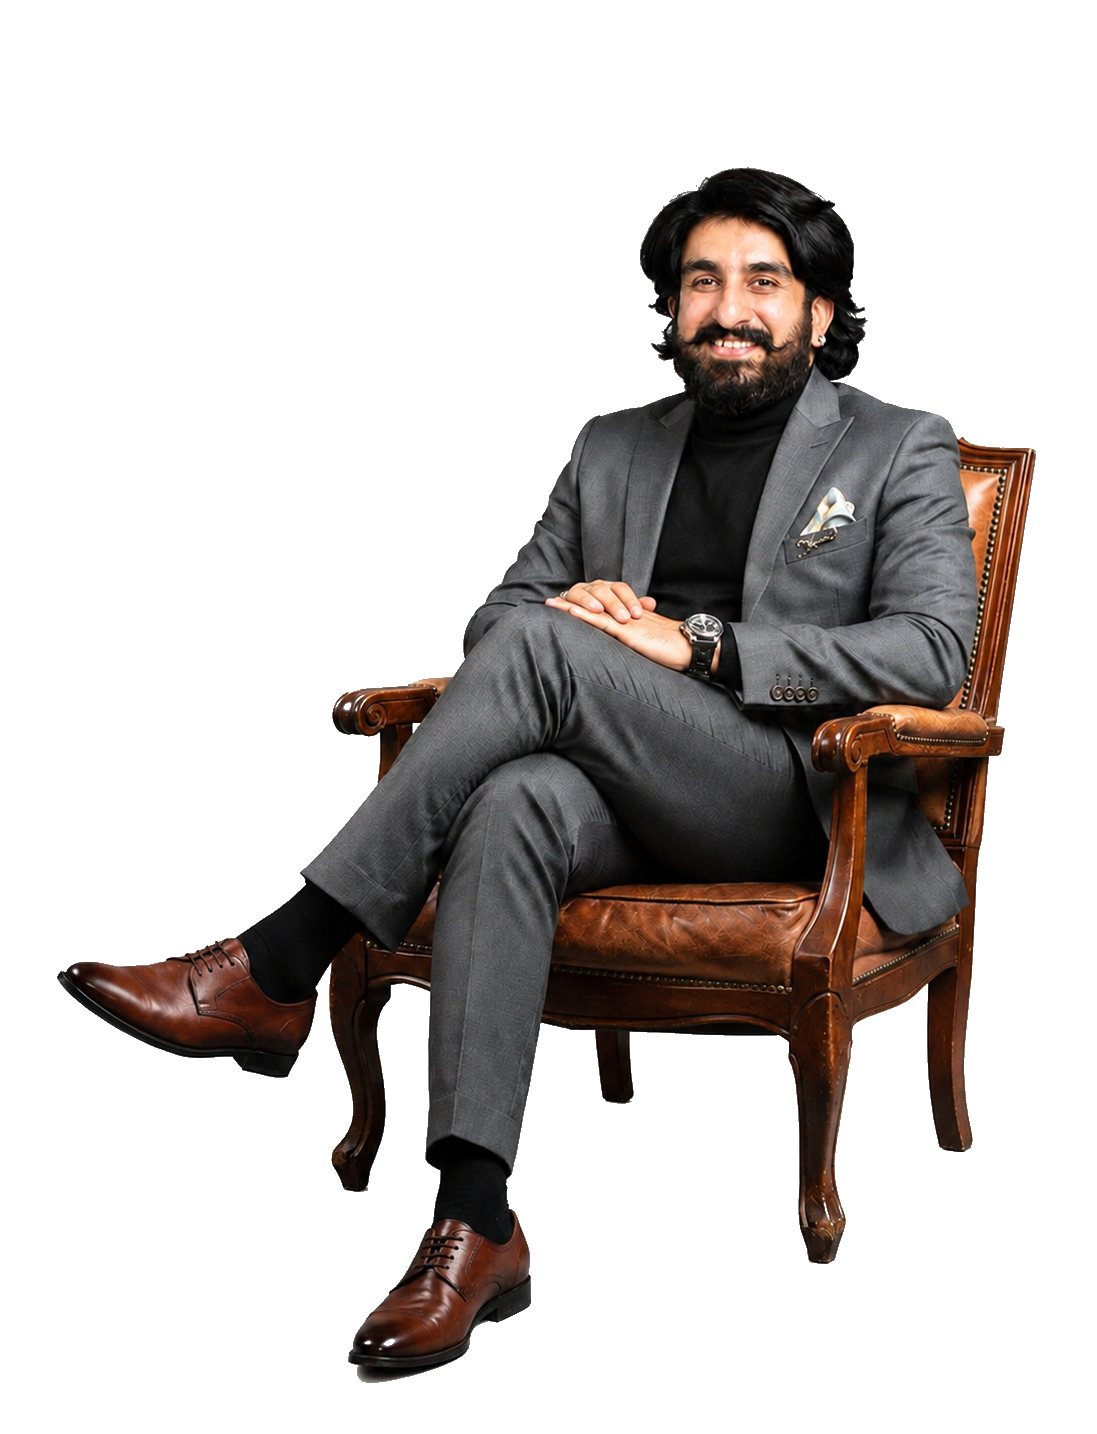
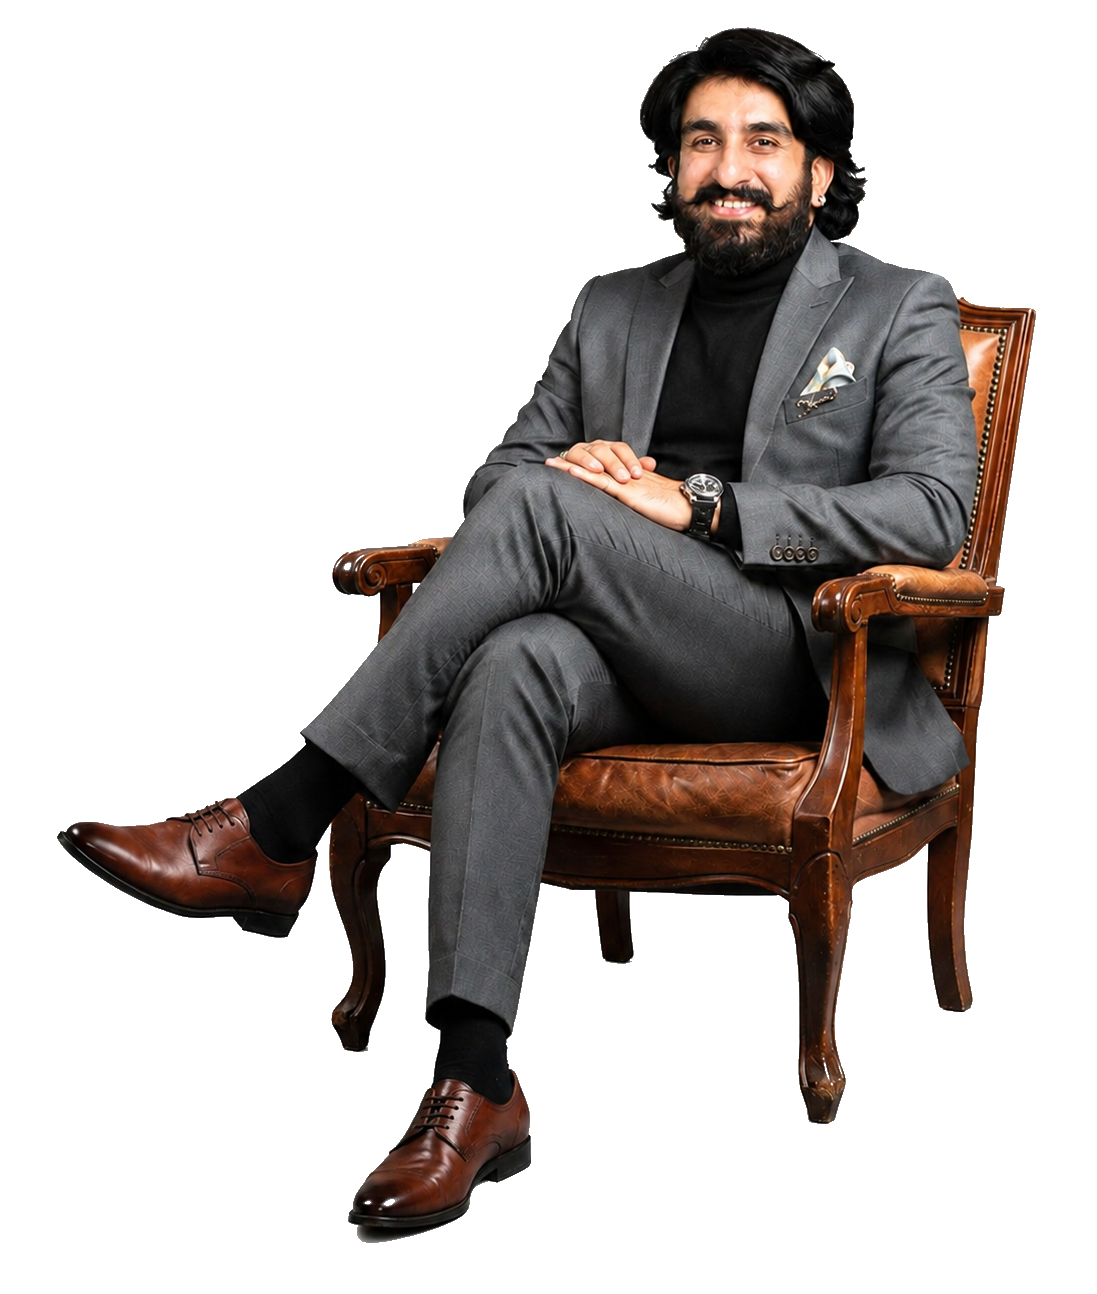
dfhdskjfhjdksf

Changed region(s): [[0.062, 0.0, 0.9608, 0.9892]]

diff --git a/jhamtani/src/components/about/director/director.tsx b/jhamtani/src/components/about/director/director.tsx
@@ -22,7 +22,7 @@ const directorsData: Director[] = [
       "Long before Jhamtani became one of Pune's most respected real estate brands, Mr Parmanand Jhamtani built his entrepreneurial journey on a simple belief-that trust is the strongest foundation any business can have.",
       "Beginning with construction materials and steadily expanding into real estate, he laid the groundwork for an organisation built on integrity, discipline and lasting relationships. More than four decades later, while the business has evolved across residential, commercial and lifestyle ventures, the principles that guide it remain exactly as he envisioned."
     ],
-    image: "/assets/about/parmanand.png",
+    image: "/assets/about/parmanand1.png",
   },
   {
     id: "anup",
@@ -111,7 +111,7 @@ export default function DirectorSection() {
         </motion.p>
 
         {/* Dynamic Director Name Heading */}
-        <motion.div variants={itemVariants} className="overflow-hidden mb-6 sm:mb-8">
+        <motion.div variants={itemVariants} className="overflow-hidden mb-6 sm:mb-8 relative z-10">
           <AnimatePresence mode="wait">
             <motion.h2
               key={`name-${activeDirector.id}`}
@@ -128,7 +128,7 @@ export default function DirectorSection() {
         </motion.div>
 
         {/* Content Container (Left Bio | Right Image) */}
-        <div className="relative min-h-[400px] lg:min-h-[460px]">
+        <div className="relative z-30 min-h-[400px] lg:min-h-[460px]">
           {/* Left Text Content Column */}
           <AnimatePresence mode="wait">
             <motion.div
@@ -170,7 +170,7 @@ export default function DirectorSection() {
               animate={{ opacity: 1, scale: 1 }}
               exit={{ opacity: 0, scale: 0.96 }}
               transition={{ duration: 0.4, ease: [0.25, 1, 0.5, 1] }}
-              className="hidden lg:block absolute right-0 top-[-100px] bottom-[-160px] w-[50%] xl:w-[48%] pointer-events-none z-20"
+              className="hidden lg:block absolute right-[-5%] xl:right-[-2%] top-[-150px] bottom-[-300px] w-[85%] xl:w-[80%] pointer-events-none z-[50]"
             >
               <div className="relative w-full h-full">
                 <Image
@@ -178,7 +178,7 @@ export default function DirectorSection() {
                   alt={activeDirector.name}
                   fill
                   priority
-                  sizes="(max-width: 1200px) 50vw, 600px"
+                  sizes="(max-width: 1200px) 85vw, 1000px"
                   className="object-contain object-bottom"
                 />
               </div>
@@ -193,7 +193,7 @@ export default function DirectorSection() {
               animate={{ opacity: 1, y: 0 }}
               exit={{ opacity: 0, y: 20 }}
               transition={{ duration: 0.35 }}
-              className="lg:hidden relative w-full h-[360px] sm:h-[440px] mt-6 pointer-events-none"
+              className="lg:hidden relative w-full h-[450px] sm:h-[550px] mt-6 pointer-events-none z-20"
             >
               <Image
                 src={activeDirector.image}
